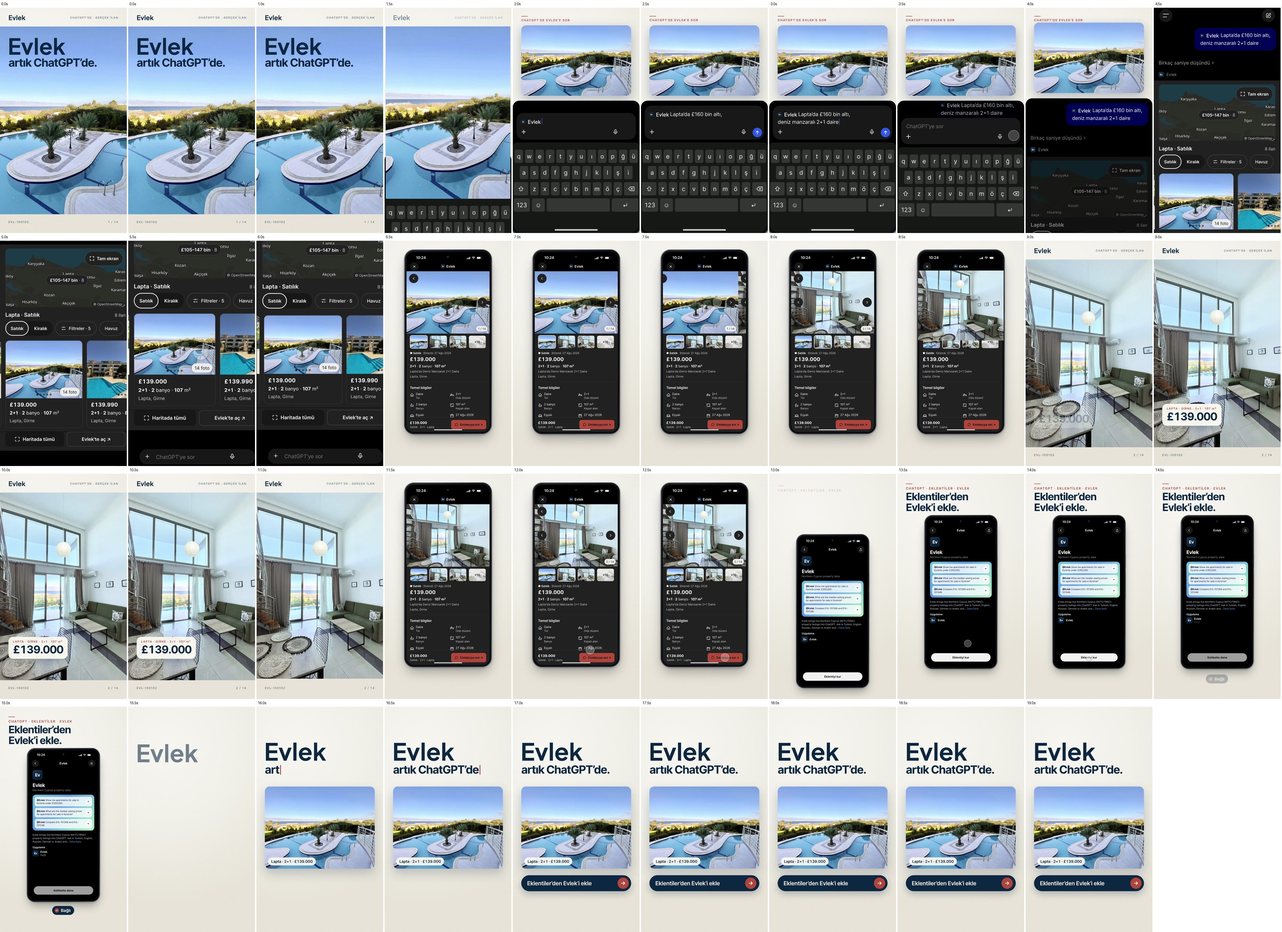
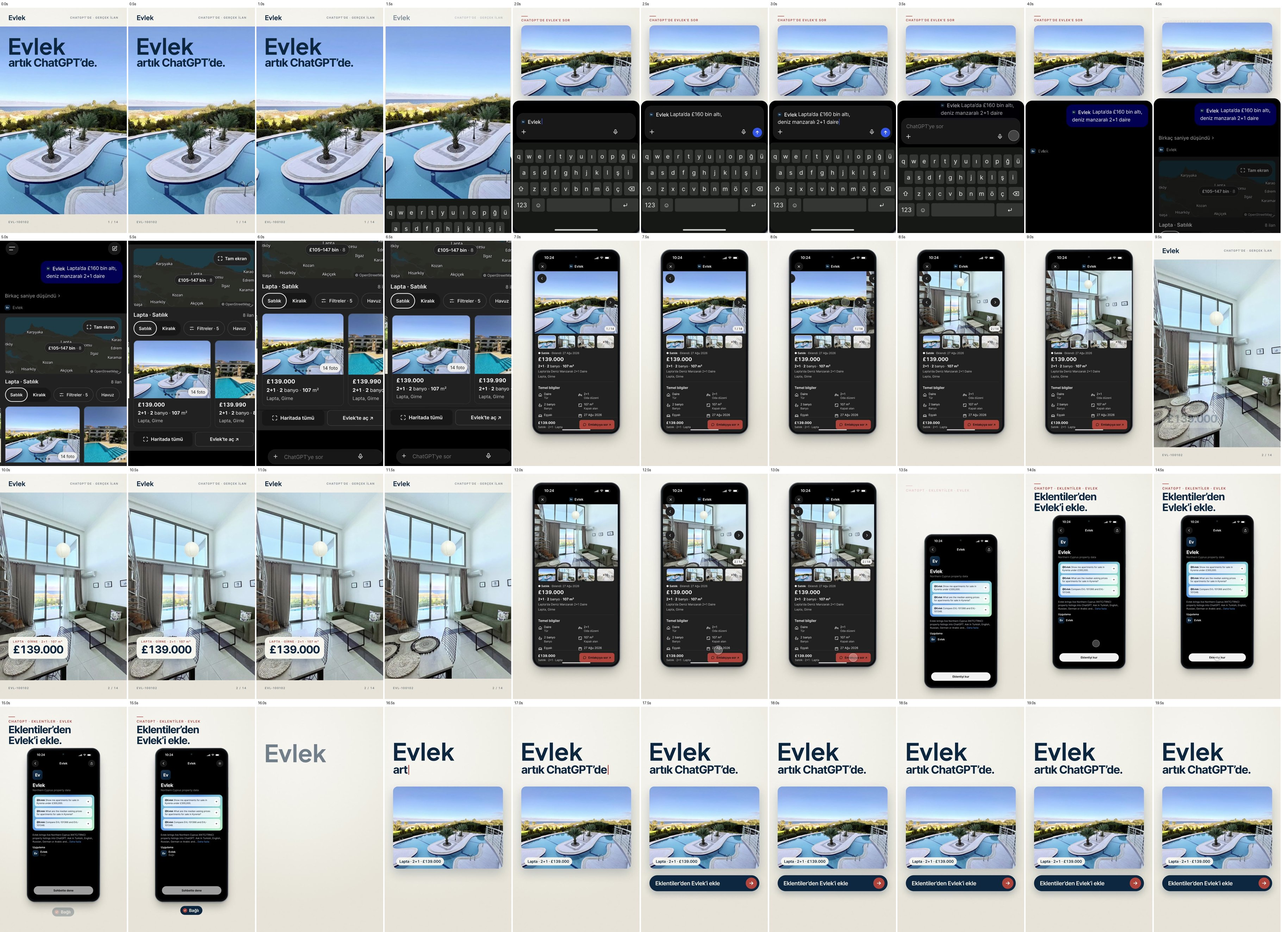
FINAL: rapor son render değerleriyle güncellendi (20,0 sn), kareler
Claude-Session: https://claude.ai/code/session_01Y2vpGX7VqE9ipTVDuDuA9C

diff --git a/evlek-chatgpt/docs/v16/V16-KREATIF-RAPOR.md b/evlek-chatgpt/docs/v16/V16-KREATIF-RAPOR.md
@@ -94,7 +94,7 @@ Editoryal değerlendirmedir; gerçek izleyici testi yapılmadı. Kareler: `acili
 
 Marka sahibinin daha önceki şartı ("önce sorulur, sonra sonuç gelir") korunuyor: sorgu fotoğrafın üstüne yazılıyor, fotoğraf cevap olarak ChatGPT'deki karta iniyor.
 
-## FINAL kurgu (19,5 sn · 120 BPM · vuruş 0,5 sn)
+## FINAL kurgu (20,0 sn · 120 BPM · vuruş 0,5 sn)
 
 İlk V16 kurgusunda (18 sn, commit `a0b572e`) sorgu fotoğrafın üstüne yazılıyordu; ChatGPT'de Evlek'e yazma anı yoktu. Marka sahibi bu sahneyi istedi. Final kurguda açılış fotoğrafı korunuyor, yazma sahnesi gerçek ChatGPT yazım kutusunda geri geliyor.
 
@@ -103,15 +103,15 @@ Marka sahibinin daha önceki şartı ("önce sorulur, sonra sonuç gelir") korun
 | 0,00–1,40 | Gerçek ilanın havuz fotoğrafı + "Evlek artık ChatGPT'de." | Fotoğraf penceresi 1080×1600, krem paspartu |
 | 1,40–2,00 | Fotoğraf üste çekilir; altta ChatGPT yazım kutusu ve klavye açılır | Üstte fotoğraf, altta arayüz yaprağı |
 | 2,10–3,00 | Evlek çipi + sorgu, dört öbekte | Arayüz düz, kenardan kenara |
-| 3,50–4,00 | Gönder → balon, gri "Evlek" araması, "Birkaç saniye düşündü" | Aynı; fotoğraf üstte kalır |
-| 4,00–4,80 | Sonuç: arayüz kadrajı doldurur (balon, harita, kartlar) | Arayüz düz |
-| 4,80–6,00 | Kart şeridi: £139.000 · 2+1 · 107 m² · Lapta, Girne | 1:1 gerçek piksel |
-| 6,00–8,45 | Karta dokunuş → gerçek ilan; galeri 2/14 | Telefon |
-| 8,45–11,00 | Salon fotoğrafı (içeriden deniz) + fiyat etiketi | Fotoğraf penceresi 1080×1600 |
-| 11,00–13,00 | Fotoğraf ilana iner; "Emlakçıya sor" dokunuşu (12,4) | Telefon |
-| 13,00 | Kesme | |
-| 13,00–15,50 | "Eklentiler'den Evlek'i ekle." · Eklentiyi kur (13,95) → Bağlı (14,5) | Telefon |
-| 15,50–19,50 | Logo · "artık ChatGPT'de." · ev fotoğrafı · tek CTA | Kapanış kartı |
+| 3,50–4,50 | Gönder → balon, gri "Evlek" araması, "Birkaç saniye düşündü" | Aynı; fotoğraf üstte kalır |
+| 4,50–5,30 | Sonuç: arayüz kadrajı doldurur (balon, harita, kartlar) | Arayüz düz |
+| 5,30–6,50 | Kart şeridi: £139.000 · 2+1 · 107 m² · Lapta, Girne | 1:1 gerçek piksel |
+| 6,50–8,95 | Karta dokunuş → gerçek ilan; galeri 2/14 | Telefon |
+| 8,95–11,50 | Salon fotoğrafı (içeriden deniz) + fiyat etiketi | Fotoğraf penceresi 1080×1600 |
+| 11,50–13,50 | Fotoğraf ilana iner; "Emlakçıya sor" dokunuşu (12,9) | Telefon |
+| 13,50 | Kesme | |
+| 13,50–16,00 | "Eklentiler'den Evlek'i ekle." · Eklentiyi kur (14,45) → Bağlı (15,0) | Telefon |
+| 16,00–20,00 | Logo · "artık ChatGPT'de." · ev fotoğrafı · tek CTA | Kapanış kartı |
 
 **Grafik tasarım kararları:**
 - **Sahne:** krem zemin, lacivert tipografi, mercan yalnız vurgu. %7 gren; degradede bantlanma yok.
@@ -134,8 +134,10 @@ Marka sahibinin daha önceki şartı ("önce sorulur, sonra sonuç gelir") korun
 | Sorgu hapı gerçek haritanın üstünde | denetçi | Kaldırıldı; sorgu artık gerçek sohbet balonunda. |
 | "107 M²" | denetçi | "107 m²"; büyük harf dönüşümü kaldırıldı. |
 | Açılışta "Ev" simgeli etiket gerçek arayüz gibi | denetçi | Düz başlık: "CHATGPT'DE EVLEK'E SOR". |
-| Salon fotoğrafı ilana inerken 17 px sıçrama | kendi ölçümüm | Hiza düzeltildi; kalkış ve inişte kayma 0 px (kare 506↔508, 695↔697). |
+| Salon fotoğrafı ilana inerken 17 px sıçrama | kendi ölçümüm | Hiza düzeltildi; kalkış ve inişte kayma 0 px (kare 536↔538, 725↔727). |
 | Gönderdikten sonra ~1 sn siyah kadraj | kendi kontrolüm | Arama alt yaprakta kalıyor, fotoğraf üstte; kadraj sonuçla açılıyor. |
+| Gönder → sonuç 0,5 sn, atlama görünmüyor | denetçi (final) | "Evlek" araması 1,0 sn'ye uzatıldı; sonuç 4,5 sn'de. |
+| 4,2 sn'de solan başlık fotoğrafın üstünde | denetçi (final) | Başlık açılmadan önce 8 karede söner. |
 | Ses yükseklik eşitleyicisi sakin bölümleri kendiliğinden yükseltiyordu | kendi ölçümüm | Master doğrusal kazançla alınıyor; bölüm dengesi mikste kuruldu. |
 
 **Kabul edilmeyen öneri:** KD "Emlakçıya sor" dokunuşunun çıkarılmasını istedi. Kurgucu ve denetçi "dokunuşta kes" dedi; marka sahibi anın kalmasını onayladı. Dokunuş korundu, 0,6 sn sonra kesiliyor.
@@ -146,29 +148,29 @@ Marka sahibinin daha önceki şartı ("önce sorulur, sonra sonuç gelir") korun
 
 | Dosya | sha256 |
 |---|---|
[7 lines of base64/hex data omitted]
 | `v16_acilis_A.mp4`, `v16_acilis_B.mp4` | açılış denemeleri |
 
 **Teknik çıktı** (`bash scripts/v16-qc.sh`):
-- **Görüntü:** 1080×1920 · 9:16 · 60/1 · 1170 kare · 19,500 sn · h264 yuv420p · bt709.
-- **Ses:** AAC 320 kb/sn, 48 kHz stereo · −13,9 LUFS · LRA 7,6 · gerçek tepe −3,8 dBTP.
-- **Eşleşme:** sessiz ve sesli dosyada video MD5 aynı (`e1db0cc6…`); ses `-c:v copy` ile eklendi.
-- **Kesmeler:** siyah kare 0; tek sert kesme planlanan 13,00 sn'de.
+- **Görüntü:** 1080×1920 · 9:16 · 60/1 · 1200 kare · 20,000 sn · h264 yuv420p · bt709.
+- **Ses:** AAC 320 kb/sn, 48 kHz stereo · −13,9 LUFS · LRA 7,2 · gerçek tepe −3,8 dBTP.
+- **Eşleşme:** sessiz ve sesli dosyada video MD5 aynı (`2633b559…`); ses `-c:v copy` ile eklendi.
+- **Kesmeler:** siyah kare 0; tek sert kesme planlanan 13,50 sn'de.
 - **Döngü:** film döngü olarak kurulmadı; son kare kapanış kartı.
 
 **Uzman testleri:**
 
 | Test | Sonuç | Kanıt |
 |---|---|---|
-| KD: 5. sn'ye kadar sorgu + £139.000 kartı, 360 px'te | GEÇER | Sorgu 3,0 sn'de tam; 4,0–4,8 sn'de balon ve kartlar aynı karede; £139.000 4,8 sn'den itibaren 1:1. Süre 19,5 sn; CTA yazımı 1. |
+| KD: 5. sn'ye kadar sorgu + £139.000 kartı, 360 px'te | GEÇER | Sorgu 3,0 sn'de tam; 4,5–5,0 sn'de balon ve kartlar aynı karede; £139.000 5,3 sn'den itibaren 1:1. Süre 20,0 sn; CTA yazımı 1. |
 | Görüntü yön.: fotoğraf ≥1080×1600, ölçek ≤1,36× | GEÇER | Kod değerleri: 1,333–1,36× ve 1,00–1,10×. Ufuk konumu ve kontrast final karede ayrıca ölçülmedi. |
-| Kurgu: ilk gerçek sonuç ≤5 sn | GEÇER | Hedef ≤5,0 sn, gerçekleşen 4,0 sn (V15: 8,45). Kurgucunun 2,40 sn hedefi, yazma sahnesi geri geldiği için tutmuyor. |
-| Hareket: eğim 0°, siyah ≤%20, fotoğraf ≤6. sn'de ≥1,5 sn | KISMEN | Eğim 0° ve fotoğraf (0–1,4 sn tam, 3,5 sn'ye kadar üstte) geçer. Koyu piksel oranı yazma sırasında %36–46 (klavye ve yazım kutusu; boş ekran değil), eklenti sayfasında %27. |
-| Ses: sonuç sıçraması ≥+8 dB ve dokunuşlardan ≥3 dB büyük | GEÇER | Telefon bandında sonuç +20,4 dB; dokunuşlar +0,2…+4,9 dB. Mono kaybı 1,1 dB. Ev bölümü ritimli bölümden 4,2 dB sakin (hedef 3–5). |
-| Denetçi: okunan her sayı ve etiket kaynakla uyumlu | DENETCI_SONUC |
+| Kurgu: ilk gerçek sonuç ≤5 sn | GEÇER | Hedef ≤5,0 sn, gerçekleşen 4,5 sn (V15: 8,45). Kurgucunun 2,40 sn hedefi, yazma sahnesi geri geldiği için tutmuyor. |
+| Hareket: eğim 0°, siyah ≤%20, fotoğraf ≤6. sn'de ≥1,5 sn | KISMEN | Eğim 0° ve fotoğraf (0–1,4 sn tam, 3,5 sn'ye kadar üstte) geçer. Koyu piksel oranı yazma ve arama sırasında %36–53 (klavye ve yazım kutusu; boş ekran değil), eklenti sayfasında %27. |
+| Ses: sonuç sıçraması ≥+8 dB ve dokunuşlardan ≥3 dB büyük | GEÇER | Telefon bandında sonuç +20,2 dB; dokunuşlar −0,2…+5,2 dB. Mono kaybı 1,1 dB. Ev bölümü ritimli bölümden 3,7 dB sakin (hedef 3–5). |
+| Denetçi: okunan her sayı ve etiket kaynakla uyumlu | GEÇER | 19,5 sn'lik final kurguda 18 kare tam çözünürlükte incelendi: sekiz maddenin sekizi geçer, uyumsuzluk 0. Yazım kutusu, çip ve balon gerçek kayıtla uyumlu (klavyede dünya/mikrofon satırı yok). İki rötuş önerisi son renderda uygulandı; son render denetçiye yeniden gönderilmedi, ben kare kare kontrol ettim. |
 
 **Mobil ve sessiz izleme:** 360 px ızgarada (`FINAL_izgara_2fps_360.jpg`) söz, sorgu, £139.000 ve CTA okunuyor. Sessizde üç şey anlaşılıyor: ne sorulduğu, ChatGPT'de gerçek bir ilanın geldiği, tek sonraki adım. Gerçek telefonda izleme yapılmadı; küçültülmüş karelerle değerlendirildi.
 
@@ -176,19 +178,19 @@ Marka sahibinin daha önceki şartı ("önce sorulur, sonra sonuç gelir") korun
 
 ## V15 → FINAL
 
-| | V15 (30 sn) | FINAL (19,5 sn) |
+| | V15 (30 sn) | FINAL (20 sn) |
 |---|---|---|
 | Açılış | 0–2,2 sn: koyu zeminde küçük telefon | 0–1,4 sn: ev fotoğrafı + söz |
 | Yazma | 3,15–7,16 sn, harf harf, kadrajın %55'i siyah | 2,1–3,0 sn, dört öbek; üstte ev fotoğrafı |
-| İlk gerçek sonuç | 8,45 sn | 4,0 sn |
-| Ev büyük görünüyor | 15,4–16,5 sn (1,1 sn, ortada bant) | 0–1,4 ve 8,45–11,0 sn (3,9 sn, 1080×1600) |
-| Kurulum ve kapanış | 19,2–30 sn: 7 dokunuş, boş telefon | 13–19,5 sn: 1 dokunuş, logo + ev + tek CTA |
+| İlk gerçek sonuç | 8,45 sn | 4,5 sn |
+| Ev büyük görünüyor | 15,4–16,5 sn (1,1 sn, ortada bant) | 0–1,4 ve 8,95–11,5 sn (3,9 sn, 1080×1600) |
+| Kurulum ve kapanış | 19,2–30 sn: 7 dokunuş, boş telefon | 13,5–20 sn: 1 dokunuş, logo + ev + tek CTA |
 
 ## Açık noktalar
 
 1. **Yayın günü kontrolü:** İlan yayında mı, fiyat £139.000 mı, "8 ilan" sayısı aynı mı. Canlı sayfa 15 Kasım 2026'da doğrulandı.
 2. **Doğrulanamayan:** Kurulu olmayan genel bir hesapta "Eklentiyi kur" akışı.
-3. **Zaman sıkıştırması:** Gönder ile sonuç arası filmde 0,5 sn; ekranda gerçek etiket "Birkaç saniye düşündü" duruyor. Hız üzerine metin ya da seslendirme yok.
+3. **Zaman sıkıştırması:** Gönder ile sonuç arası filmde 1,0 sn; ekranda gerçek etiket "Birkaç saniye düşündü" duruyor. Hız üzerine metin ya da seslendirme yok.
 4. **Temsil notu:** ChatGPT kabuğu yeniden çizimdir. Not film içinde yok (marka sahibinin kararı); gönderi açıklamasına yazılmalı.
 5. **Ses dinlenmedi.** Kulağa ters gelen yer olursa `audio/film16.py`'de tek tek değişir.
 
